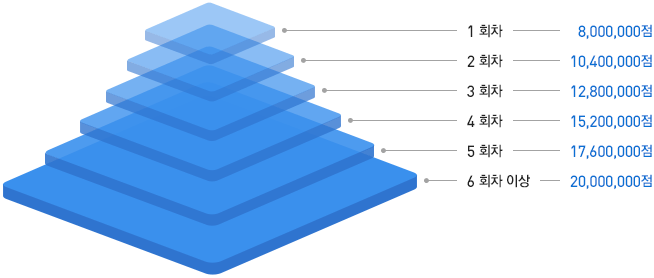
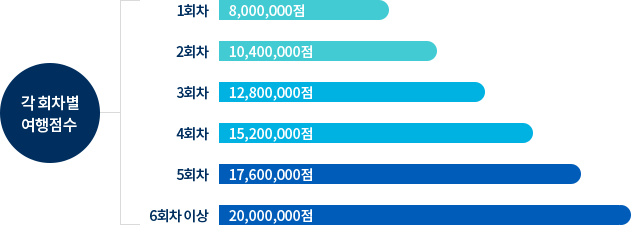
사업가이드 작업중

diff --git a/_ui/responsive/html/business/G20730_001.html b/_ui/responsive/html/business/G20730_001.html
@@ -162,9 +162,9 @@
 						'볼륨 성장 보너스'는 전년과 유사한 프로그램으로 운영되나 보너스 지급 테이블이 일부 변경 되었습니다.
 					</p>
 					<h2>한눈에 보기</h2>
-					<div class="white-line-box">
+					<div class="gn-box">
 						<div>
-							<h3>월간 보너스</h3>
+							<strong class="gn-box-tit">월간 보너스</strong>
 							<table class="tblList02">
 								<caption>월간보너스 한눈에 보기:Achiever 보너스, 최소달성시, 재달성시 정보제공</caption>
 								<colgroup>
@@ -197,7 +197,7 @@
 									</tr>
 								</tbody>
 							</table>
-							<table class="tblList02">
+							<table class="tblList02 Ruby">
 								<caption>월간보너스 한눈에 보기:루비 플러스 보너스, Ruby BV 1% 정보제공</caption>
 								<colgroup>
 									<col style="width:33.3333%">
@@ -206,7 +206,7 @@
 								</colgroup>
 								<tbody>
 									<tr>
-										<th scope="col">루비 플러스 보너스</th>
+										<th scope="col" class="txLCenter">루비 플러스 보너스</th>
 										<td colspan="2">Ruby BV 1%</td>
 									</tr>
 								</tbody>
@@ -235,7 +235,7 @@
 							</table>
 						</div>
 						<div>
-							<h3>연간 보너스</h3>
+							<strong class="gn-box-tit year">연간 보너스</strong>
 							<table class="tblList02">
 								<caption>월간보너스 한눈에 보기:Personal Q 보너스, 기본 보너스, 추가 보너스 정보제공</caption>
 								<colgroup>
@@ -253,23 +253,23 @@
 								<tbody>
 									<tr>
 										<td>기본 보너스</td>
-										<td><b>700</b>만원</td>
+										<td><em class="won"><span>700</span>만원</em></td>
 										<td></td>
 									</tr>
 									<tr>
 										<td>연간 Q-leg Month 1개 성장 시</td>
 										<td></td>
-										<td><b>500</b>만원</td>
+										<td><em class="won"><span>500</span>만원</em></td>
 									</tr>
 									<tr>
 										<td>연간 Q-leg Month 2개 성장 시</td>
 										<td></td>
-										<td><b>700</b>만원</td>
+										<td><em class="won"><span>700</span>만원</em></td>
 									</tr>
 									<tr>
 										<td>연간 Q-leg Month 3개 이상 성장 시</td>
 										<td></td>
-										<td><b>900</b>만원</td>
+										<td><em class="won"><span>900</span>만원</em></td>
 									</tr>
 								</tbody>
 							</table>
@@ -291,20 +291,20 @@
 									<tbody>
 									<tr>
 										<td>다이아몬드 이하</td>
-										<td>월평균코어보너스 X <b>500</b>%</td>
-										<td rowspan="4"><b>200</b>%</td>
+										<td><em class="won">월평균코어보너스 X <span>500</span>%</em></td>
+										<td rowspan="4"><em class="won"><span>200</span>%</em></td>
 									</tr>
 									<tr>
 										<td>파운더스 다이아몬드~더블다이아 몬드</td>
-										<td>월평균코어보너스 X <b>800</b>%</td>
+										<td><em class="won">월평균코어보너스 X <span>800</span>%</em></td>
 									</tr>
 									<tr>
 										<td>파운더스 더불 다이아몬드 이상(FC 제외)</td>
-										<td>월평균코어보너스 X <b>1100</b>%</td>
+										<td><em class="won">월평균코어보너스 X <span>1100</span>%</em></td>
 									</tr>
 									<tr>
 										<td>FC리더</td>
-										<td>월평균코어보너스 X <b>1400</b>%</td>
+										<td><em class="won">월평균코어보너스 X <span>1400</span>%</em></td>
 									</tr>
 								</tbody>
 								</tbody>
@@ -312,10 +312,10 @@
 						</div>
 					</div>
 
-					<h3>국제후원 및 국제사업 적용 건</h3>
+					<h2>국제후원 및 국제사업 적용 건</h2>
 					<p>사업성장 특별보상 프로그램은 국내사업성장에 대한 보상을 위해 마련한 것으로, 국제후원 및 국제사업을 통한 성과에 대해서는 보상하지 않으며, 자세한 내용은 아래를 참조해주시기 바랍니다.</p>
 
-					<h4>국내사업 핀 자격</h4>
+					<h3>국내사업 핀 자격</h3>
 					<p class="listDotFS mgtS">국제사업 및 국제후원을 제외한 순수 국내사업기준에 의해 적용되는 핀 자격임을 유의하시기 바랍니다.<br>(기준연도 및 당 회계연도 핀 자격 계산 시 모두 적용)</p>
 					<p class="txt-italic ex">본 내용은 사업성장 특별보상 프로그램에서 각각의 보너스 수혜조건 중 ‘국내사업 핀 자격’ 계산 시 예외적으로 적용되며, 대상자 조건 중 ‘핀 자격’ 계산 시에는 세일즈 &amp; 마케팅 플랜에 의해 전 세계 공통적으로 적용되는 기준을 따릅니다. Achiever 보너스의 수혜 조건과 여행 프로그램 참가 기준의 경우에만 세일즈 &amp; 마케팅 플랜에 의해 전 세계 공통적으로 적용되는 기준을 따릅니다.</p>
 
@@ -324,8 +324,8 @@
 						<caption>핀 자격 적용 기준</caption>
 						<colgroup>
 							<col style="width:25%">
-							<col style="width:30%">
-							<col style="width:45%">
+							<col style="width:35%">
+							<col style="width:40%">
 						</colgroup>
 						<thead>
 							<tr>
@@ -336,18 +336,18 @@
 						</thead>
 						<tbody>
 							<tr>
-								<th class="bgNone" scope="row">Personal Q 보너스,<br>볼륨 성장 보너스</th>
-								<td class="textL"><p>세일즈 &amp; 마케팅 플랜에 의해 전세계<br>공통적으로 적용되는 핀 자격<br>(국제사업 및 국제후원 포함)</p></td>
-								<td class="textL"><p>순수 국내사업기준에 의해 적용되는 국내사업 핀 자격<br>(국제사업 및 국제후원 미포함)</p></td>
+								<th class="bgNone txLCenter" scope="row">Personal Q 보너스, 볼륨 성장 보너스</th>
+								<td><p>세일즈 &amp; 마케팅 플랜에 의해 전세계 공통적으로 적용되는 핀 자격<br>(국제사업 및 국제후원 포함)</p></td>
+								<td><p>순수 국내사업기준에 의해 적용되는 국내사업 핀 자격<br>(국제사업 및 국제후원 미포함)</p></td>
 							</tr>
 							<tr>
-								<th class="bgNone" scope="row">Achiever 보너스</th>
-								<td class="textL" colspan="2"><p>세일즈 &amp; 마케팅 플랜에 의해 전 세계 공통적으로 적용되는 핀 자격<br>(국제사업 및 국제후원 포함)</p></td>
+								<th class="bgNone txLCenter" scope="row">Achiever 보너스</th>
+								<td colspan="2"><p>세일즈 &amp; 마케팅 플랜에 의해 전 세계 공통적으로 적용되는 핀 자격<br>(국제사업 및 국제후원 포함)</p></td>
 							</tr>
 						</tbody>
 					</table>
 
-					<h4>코어 보너스</h4>
+					<h3>코어 보너스</h3>
 					<p class="listDotFS mgtS">국제사업 및 국제후원을 제외한 순수 국내사업기준에 의해 적용되는 코어 보너스</p>
 					<p class="txt-italic ex">본 내용은 볼륨 성장 보너스 계산에 사용하는 월평균 월간 코어 보너스 산출 시 적용됩니다.</p>
 
@@ -365,8 +365,8 @@
 						</thead>
 						<tbody>
 							<tr>
-								<th class="bgNone" scope="row">볼륨 성장 보너스</th>
-								<td class="textL"><p>포함 : 후원 수당, 리더십 보너스(대리후원 포함), 루비 보너스, MD 보너스<br>미포함 : 국제사업 및 국제후원에서 발생하는 리더십 보너스</p></td>
+								<th class="bgNone txLCenter" scope="row">볼륨 성장 보너스</th>
+								<td><p>포함 : 후원 수당, 리더십 보너스(대리후원 포함), 루비 보너스, MD 보너스<br>미포함 : 국제사업 및 국제후원에서 발생하는 리더십 보너스</p></td>
 							</tr>
 						</tbody>
 					</table>

diff --git a/_ui/responsive/html/account/U70100.html b/_ui/responsive/html/account/U70100.html
@@ -984,8 +984,6 @@
 											</ul>
 											<!--// tr(loop) -->
 
-
-
 											<!-- tr(loop) -->
 											<div class="row con-list-item">
 												<div class="col-ak-10 ord-num">
@@ -1131,6 +1129,104 @@
 													</span>
 												</div>
 											</div>
+											<!--// tr(loop) -->
+
+											<!-- tr(loop) -->
+											<ul class="sub-list">
+												<li class="row con-list-item">
+													<div class="col-ak-10 ord-num">
+														<span class="tite-label">주문번호</span>
+														<span class="txte-wrap"><a href="U70101.html">1234568</a></span>
+													</div>
+													<div class="col-ak-10 ord-date">
+														<span class="tite-label">주문일자</span>
+														<span class="txte-wrap">2014-05-30</span>
+													</div>
+													<div class="col-ak-10 ord-price">
+														<span class="tite-label">결제금액</span>
+														<span class="txte-wrap">60,000</span>
+													</div>
+													<div class="col-ak-10 ord-pvbv">
+														<span class="tite-label">총 PV/BV</span>
+														<span class="txte-wrap">211,050 /<em class="price-bv">232,500</em></span>
+													</div>
+													<div class="col-ak-10 ord-chnnel">
+														<div class="pc-in">
+															<span class="txte-wrap">ABN<em class="od-way">(배달주문)</em></span>
+														</div>
+														<div class="mob-in">
+															<p class="jumon">
+																<span class="tite-label">주문채널</span>
+																<span class="txte-wrap">온라인팩스</span>
+															</p>
+															<p class="bab">
+																<span class="tite-label">배송방법</span>
+																<span class="txte-wrap">배달주문</span>
+															</p>
+														</div>
+													</div>
+													<div class="col-ak-10 ord-type">
+														<span class="tite-label">주문유형</span>
+														<span class="txte-wrap">일반주문</span>
+													</div>
+													<div class="col-ak-10 ord-cond">
+														<span class="tite-label">주문상태</span>
+														<span class="txte-wrap">출고완료</span>
+													</div>
+													<div class="col-ak-10 ord-btn">
+														<span class="txte-wrap">배송명1</span>
+													</div>
+												</li>
+											</ul>
+											<!--// tr(loop) -->
+
+											<!-- tr(loop) -->
+											<ul class="sub-list">
+												<li class="row con-list-item">
+													<div class="col-ak-10 ord-num">
+														<span class="tite-label">주문번호</span>
+														<span class="txte-wrap"><a href="U70101.html">1234568</a></span>
+													</div>
+													<div class="col-ak-10 ord-date">
+														<span class="tite-label">주문일자</span>
+														<span class="txte-wrap">2014-05-30</span>
+													</div>
+													<div class="col-ak-10 ord-price">
+														<span class="tite-label">결제금액</span>
+														<span class="txte-wrap">60,000</span>
+													</div>
+													<div class="col-ak-10 ord-pvbv">
+														<span class="tite-label">총 PV/BV</span>
+														<span class="txte-wrap">211,050 /<em class="price-bv">232,500</em></span>
+													</div>
+													<div class="col-ak-10 ord-chnnel">
+														<div class="pc-in">
+															<span class="txte-wrap">ABN<em class="od-way">(배달주문)</em></span>
+														</div>
+														<div class="mob-in">
+															<p class="jumon">
+																<span class="tite-label">주문채널</span>
+																<span class="txte-wrap">온라인팩스</span>
+															</p>
+															<p class="bab">
+																<span class="tite-label">배송방법</span>
+																<span class="txte-wrap">배달주문</span>
+															</p>
+														</div>
+													</div>
+													<div class="col-ak-10 ord-type">
+														<span class="tite-label">주문유형</span>
+														<span class="txte-wrap">일반주문</span>
+													</div>
+													<div class="col-ak-10 ord-cond">
+														<span class="tite-label">주문상태</span>
+														<span class="txte-wrap">출고완료</span>
+													</div>
+													<div class="col-ak-10 ord-btn">
+														<span class="txte-wrap">배송명1</span>
+													</div>
+												</li>
+											</ul>
 											<!--// tr(loop) -->
 										</div>
 

diff --git a/_ui/responsive/theme-blue/css/akl-account.css b/_ui/responsive/theme-blue/css/akl-account.css
@@ -1382,7 +1382,15 @@ p.txt-reserv-num {padding:30px 0 0;font-size:14px;font-weight:400;letter-spacing
 .akl .myorder-list.type02 .content-list {padding:0}
 .akl .myorder-list.type02 .content-list .con-list-item {padding: 14px 0 18px;}
 .akl .myorder-list.type02 .content-list .con-list-item:nth-of-type(even){padding: 14px 0 18px; background: #f4f4f4;}
-.akl .myorder-list.type02 .sub-list {margin: 0 0 0 30px;}
+.akl .myorder-list.type02 .content-list .con-list-item:nth-of-type(even) + .sub-list { background: #f4f4f4;}
+.akl .myorder-list.type02 .content-list .con-list-item:nth-of-type(even) + .sub-list + .sub-list{ background: #f4f4f4;}
+
+.akl .myorder-list.type02 .sub-list {margin: 0}
+.akl .myorder-list.type02 .sub-list .con-list-item {border-left:0; position:relative;}
+.akl .myorder-list.type02 .sub-list li:after {content:""; position:absolute; left:20px; top:0; bottom:0; border-left: 2px solid #dadada; height:77px }
+.akl .myorder-list.type02 .sub-list li > div { padding-left:25px!important; }
+
+.akl .myorder-list.type02 .content-list .con-list-item:nth-of-type(even) + .sub-list {  }
 
 .akl .myorder-list .ord-num {width:13%; text-align:center}
 .akl .myorder-list .ord-date {width:13%; text-align:center}

diff --git a/_ui/responsive/theme-blue/css/akl-common.css b/_ui/responsive/theme-blue/css/akl-common.css
@@ -19,6 +19,14 @@ Editor : eunmyoung Noh
 @import url("akl-brand_hw.css");
 @import url("akl-print.css");
 
+/* 사업 가이드 > GIP&NCA */
+.gn-box-tit {display:block; color:#fff; background:#42cbd3; margin-bottom:10px; text-align:center; padding:10px; font-size:18px; font-weight:500}
+.gn-box-tit.year { background:#00b2e2;  position:relative; margin-top: 80px}
+.gn-box-tit.year:before {content:""; position:absolute; left:-60px; right:-60px; top:-40px; border-top:1px solid #dadada }
+.bizNumList li .box-diagram { margin-top:10px; text-indent:0;}
+.akl .gn-box .tblList02 + .tblList02 thead tr {border-top: 0}
+.akl .gn-box .tblList02.Ruby tbody tr > * { padding: 10px 10px;background: #f4f4f4; color: #002f5f; font-weight: 500;}
+
 /* 운영팀게시물 */
 @import url("content_res_all.css");
 

diff --git a/_ui/responsive/html/business/G20730_007.html b/_ui/responsive/html/business/G20730_007.html
@@ -178,8 +178,8 @@
 						</li>
 						<li>
 							<strong>5) 각 회차별 여행점수</strong>
-							<div class="bizPhoto mathEx" style="margin-top:20px;">
-								<img src="/_ui/responsive/theme-blue/images/akl_common/img_rewards_travel1.png" alt="1회차 8,000,000점/ 2회차 10,400,000점/ 3회차 12,800,000점/ 4회차 15,200,000점/ 5회차 17,600,000점/ 6회차 20,000,000점">
+							<div class="box-diagram">
+								<img src="/_ui/responsive/theme-blue/images/akl_common/img_rewards_travel1.png" alt="각 회차별 여행점수 : 1회차 8,000,000점/ 2회차 10,400,000점/ 3회차 12,800,000점/ 4회차 15,200,000점/ 5회차 17,600,000점/ 6회차 이상 20,000,000점">
 							</div>
 						</li>
 					</ol>

diff --git a/_ui/responsive/theme-blue/css/base.css b/_ui/responsive/theme-blue/css/base.css
@@ -649,7 +649,7 @@ li,ol,ul{padding-left:0;list-style:none;}
 }
 .btn:active,.btn:active:focus,.btn:focus,.btn:hover,button:focus{outline:initial !important;  box-shadow:none;} /*2018.05.08 수정; */
 table{width:100%;}
-table th{padding:8px 10px;font-size:13px;font-weight:100;vertical-align:top;text-transform:uppercase;color:#ffffff;background-color:#128a9e;}
+table th{padding:8px 10px;font-size:13px;font-weight:400;vertical-align:top;text-transform:uppercase;color:#ffffff;background-color:#128a9e;}
 table th:last-child{text-align:right;}
 table td{padding:24px 10px;vertical-align:top;}
 .responsive-table th:first-child{padding-left:30px;}

diff --git a/_ui/responsive/theme-blue/css/akl-contents_min.css b/_ui/responsive/theme-blue/css/akl-contents_min.css
@@ -650,7 +650,7 @@ table.clone thead, .clone tfoot{background:transparent;}
 .amway-theme.business .box-conts-group.type-bottom0 {padding-bottom:0}
 .amway-theme.business .box-conts-group .search-no-result {background:#fafafa;}
 .amway-theme.business .box-conts-group+.box-conts-group {margin:0;}
-.amway-theme.business .box-conts-group .imgbox {text-align:center;}
+.amway-theme.business .box-conts-group .imgbox {background: #fafafa; padding:40px 60px}
 .akl .amway-theme .box-goal-point li>span {font-size:38px; letter-spacing:-0.025em;}
 
 /* ----- 여행점수 조회 ----- */
